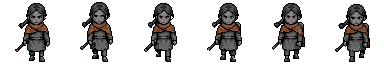
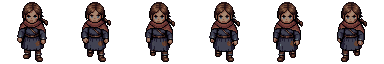
v6.8: gri sorununun kaynagi bulundu - tarife "ash-grey" yazmak
OLCUM: ton uyumu sucsuz. aktor_uyum doygunlugu yalnizca %10-22 kirpiyor
(Obruk 0.309 -> 0.248, Mirna 0.159 -> 0.143). Her sey griyse KAYNAK gri
geliyor demek: Uslu ham doygunlugu 0.035, Lin 0.112.

Sebep ORTAK sabitindeki "muted ash-grey palette, soot-stained" - model bunu
birebir uyguluyor. Kaldirildi; artik her karakterin kiyafet renkleri tek tek
adlandiriliyor ve sahneye oturtmayi ton uyumu yapiyor. Kul/is/gri kelimeleri
tarife girmiyor.

Uslu: zeytin yesili palto, hardal sarisi gomlek (doygunluk 0.035 -> 0.210).
Lin: pas kirmizisi sal, cividi mavi elbise (0.087 -> 0.471) - atesi
sondurmeyen cocugun siginagin en renkli kisisi olmasi da yerinde.

Sirt cantasi yasagi sertlestirildi (NO bag / bedroll / pouches / straps).

diff --git a/lib/game/data.ts b/lib/game/data.ts
@@ -1,6 +1,6 @@
 /** Oyun surumu. Her yayina cikan degisiklikte 0.1 artar: 0.1, 0.2 ... 0.9,
  *  sonra 1.0, 1.1 diye devam eder. Ekranin sol altinda gorunur. */
-export const SURUM='6.7';
+export const SURUM='6.8';
 /** Gelisim asamasi. Oyun oynanabilir ama icerik ve sistemler (item seti, dil
  *  secenegi, masaustu arayuzu) hala eksik - yani alfa. Beta'ya gecisi bu sabit
  *  tasir; surum numarasiyla ayri tutuldu ki 1.x sayimi bozulmasin. */

diff --git a/scripts/yeni_karakter_uret.py b/scripts/yeni_karakter_uret.py
@@ -10,8 +10,14 @@ import pxl
 from pxl_state import wait
 
 ROOT = os.path.dirname(os.path.dirname(os.path.abspath(__file__)))
-ORTAK = ('muted ash-grey palette, soot-stained, single dark outline, '
-         'NO backpack, NO satchel, NO straps across the chest, NO modern clothing, human')
+# RENK: tarife "muted ash-grey palette, soot-stained" yazmak HER SEYI griye
+# ceviriyordu (olculdu: Uslu ham doygunluk 0.035, Lin 0.112 - Obruk 0.309).
+# Sahneye oturtmak ton uyumunun isi, uretimin degil: aktor_uyum doygunlugu
+# yalnizca %10-22 kirpiyor, yani kaynak RENKLI gelmeli. Her karakterin
+# kiyafet renkleri tek tek yazilir; kul/is/gri kelimeleri tarife GIRMEZ.
+ORTAK = ('single dark outline, basic shading, no background, human, '
+         'NO backpack, NO bag, NO satchel, NO bedroll, NO pouches, '
+         'NO straps or belts across the chest, NO modern clothing')
 # Kafa orani: ilk turda Lin ve Uslu'nun kafasi govdeye gore cok buyuk cikti
 # (kullanici: "anime kizi gibi"). Mannequin sablonu kucuk figurlerde kafayi
 # buyutuyor; oran acikca yazilmali.
@@ -22,12 +28,13 @@ KISI = {
     # 3. tur: 2. tur tamamen griydi (olculdu: doygunluk 0.025, Mirna 0.143).
     # "muted ash-grey" tek basina yazilinca model hic renk koymuyor; vurgu
     # ACIKCA istenmeli. Lin atesi sondurmeyen cocuk - vurgusu koz turuncusu.
-    'nil3': ('a thin eight year old girl, small and slight, a plain patched woolen dress '
-             'over rough leggings, a FADED EMBER-ORANGE knitted shawl tied across her '
-             'shoulders - the shawl is the ONLY colour on her and everything else stays '
-             'ash-grey, hair pulled back in a tight messy braid, soot smudges on her face, '
-             'holding a short charred stick like a tally marker, stubborn set jaw, standing '
-             'very straight' + ORAN + ', ' + ORTAK, 151),
+    # 4. tur: renkler tek tek adlandirildi, "kul/gri" kelimesi yok.
+    'nil4': ('a thin eight year old girl, small and slight, wearing a dark INDIGO BLUE '
+             'patched woolen dress over warm BROWN leggings, a thick RUST RED knitted shawl '
+             'tied across her shoulders, worn leather shoes, chestnut brown hair pulled back '
+             'in a tight messy braid, a smudge of dirt on one cheek, holding a short charred '
+             'stick like a tally marker, stubborn set jaw, standing very straight'
+             + ORAN + ', ' + ORTAK, 161),
     'ayaz': ('a thin fourteen year old boy, too-large hand-me-down coat with frayed '
              'cuffs hanging past his hands, cloth wrapped around his shins, tousled '
              'hair, hollow tired eyes, a dented metal canteen hanging from his belt, '
@@ -40,13 +47,14 @@ KISI = {
     # 3. tur: iki kolu iki yana acik duruş karikaturlestiriyordu. Artik sakin
     # duruyor, tek eli yaninda kucuk bir SELAM veriyor; tuhafligi durusunda
     # degil yuzunde kalsin.
-    'uslu3': ('a scrawny man in his forties, gaunt narrow face with sunken cheeks and '
-              'restless wide eyes, a crooked half-smile, unkempt greasy hair full of ash in '
-              'flat tangled strands close to the skull, a torn city coat over a ragged shirt '
-              'with one sleeve missing, bare feet, standing calmly upright with one hand '
-              'raised beside his shoulder in a small friendly greeting wave and the other arm '
-              'hanging loose at his side; NO leaves, NO plants, NO twigs, NOT a forest hermit, '
-              'NOT a druid, arms are NOT flung out wide' + ORAN + ', ' + ORTAK, 193),
+    'uslu4': ('a scrawny man in his forties, gaunt narrow face with sunken cheeks and '
+              'restless wide eyes, a crooked half-smile, unkempt greasy dark hair in flat '
+              'tangled strands close to the skull, wearing a worn OLIVE GREEN long city coat '
+              'over a faded MUSTARD YELLOW shirt and dark brown trousers, bare feet, standing '
+              'calmly upright with one hand raised beside his shoulder in a small friendly '
+              'greeting wave and the other arm hanging loose at his side; NO leaves, NO '
+              'plants, NO twigs, NOT a forest hermit, NOT a druid, arms are NOT flung out wide'
+              + ORAN + ', ' + ORTAK, 203),
     'selvi': ('a hard-faced woman in her late thirties, wrapped in many mismatched '
               'layers of cloth and blankets against cold, a scarf covering her neck, '
               'weathered wind-burned face, cracked lips, arms folded tight, standing '

diff --git a/.claude/skills/kul-ve-yemin-esaslar/SKILL.md b/.claude/skills/kul-ve-yemin-esaslar/SKILL.md
@@ -186,10 +186,12 @@ Yaratıklarda alfa ağırlık merkezi. Referans, aynı yönün mevcut Idle kares
   24 satırından kırpılır; figürü hücrenin tepesine oturt.
 - Düşman portresi gerekiyorsa `enemies/N/D_Idle.png` → `characters/M/`
   kopyala (son muhafız = 15).
-- **Renk vurgusunu açıkça iste.** Yalnız "muted ash-grey palette" yazınca
-  model hiç renk koymuyor: Lin doygunluk 0.025 ile tamamen gri çıktı
-  (Mirna 0.143). "a FADED EMBER-ORANGE shawl — the ONLY colour on her"
-  deyince 0.087'ye çıktı. Tek sıcak vurgu kuralı buradan geliyor.
+- **Tarife "muted ash-grey palette / soot-stained" YAZMA.** Model bunu birebir
+  alıp her şeyi griye çeviriyordu (Uslu ham doygunluk 0.035, Lin 0.112).
+  Sahneye oturtmak **ton uyumunun işi**: ölçüldü, `aktor_uyum` doygunluğu
+  yalnızca %10-22 kırpıyor (Obruk 0.309 → 0.248). Yani kaynak RENKLİ gelmeli;
+  her karakterin kıyafet renkleri tek tek adlandırılır ("OLIVE GREEN coat,
+  MUSTARD YELLOW shirt"). Renk sonra kısılır, gri olan sonradan renklenmez.
 - **Duruş karikatürleştirebilir**: iki kolu iki yana açık Uslu çizgi film
   gibiydi; "standing calmly, one hand raised beside the shoulder in a small
   greeting wave" ile düzeldi. Tuhaflık duruşta değil yüzde kalsın.
@@ -308,4 +310,4 @@ Varlık silmeden önce `grep -o "url(['\"]\?/[^)'\"]*" app/globals.css`.
 
 ---
 
-*Son güncelleme: 2026-09-12, v6.7. Karıştırıyorsa kısalt ya da sil; kullanıcı böyle istedi.*
+*Son güncelleme: 2026-09-12, v6.8. Karıştırıyorsa kısalt ya da sil; kullanıcı böyle istedi.*
